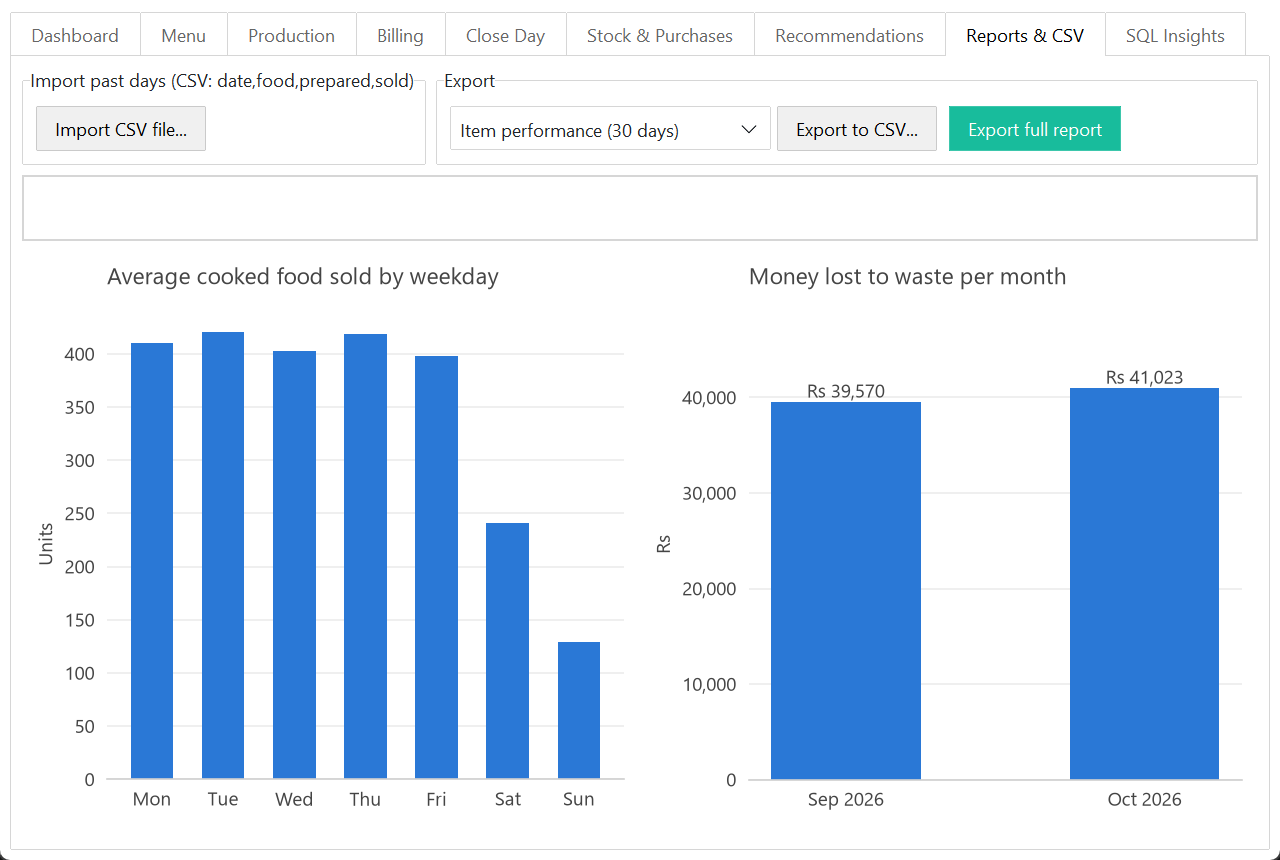
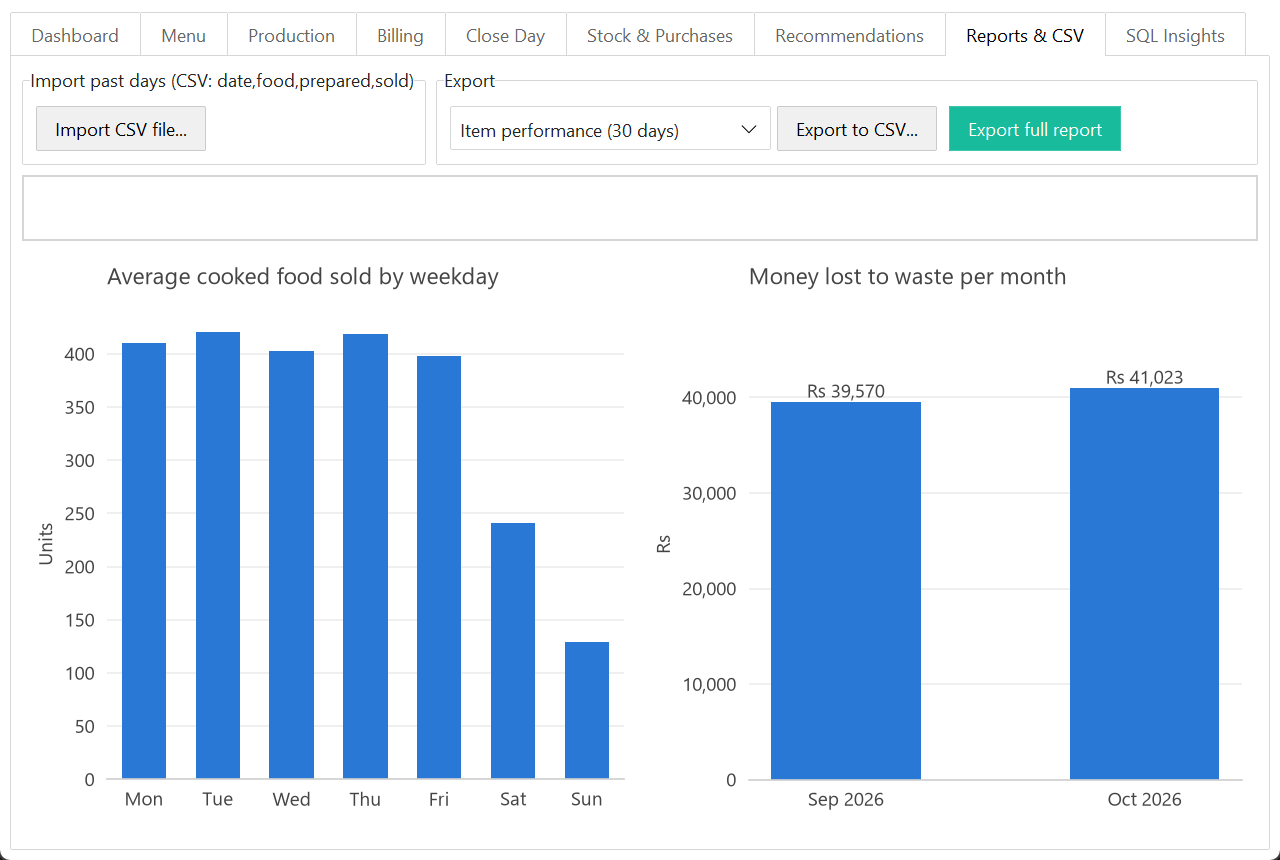
Draw weekday sales chart with sns.barplot

diff --git a/app/charts.py b/app/charts.py
@@ -82,9 +82,11 @@ def weekday_sales(rows):
     df = pd.DataFrame(rows)
     df = df[df["Is_Perishable"] == 1]
     per_day = df.groupby("Demand_Date")["Quantity_Sold"].sum().reset_index()       # total sold each day
-    per_day["Weekday"] = pd.to_datetime(per_day["Demand_Date"]).dt.day_of_week
-    averages = per_day.groupby("Weekday")["Quantity_Sold"].mean()
-    ax.bar([WEEKDAYS[d] for d in averages.index], averages.values, color=BLUE, width=0.6)
+    per_day["Weekday"] = [WEEKDAYS[d] for d in pd.to_datetime(per_day["Demand_Date"]).dt.day_of_week]
+    # barplot takes the mean of each weekday itself; errorbar=None hides the error bars
+    sns.barplot(data=per_day, x="Weekday", y="Quantity_Sold", order=WEEKDAYS, errorbar=None,
+                color=BLUE, saturation=1, width=0.6, ax=ax)
+    ax.set_xlabel("")
     ax.set_ylabel("Units")
     return fig
 
